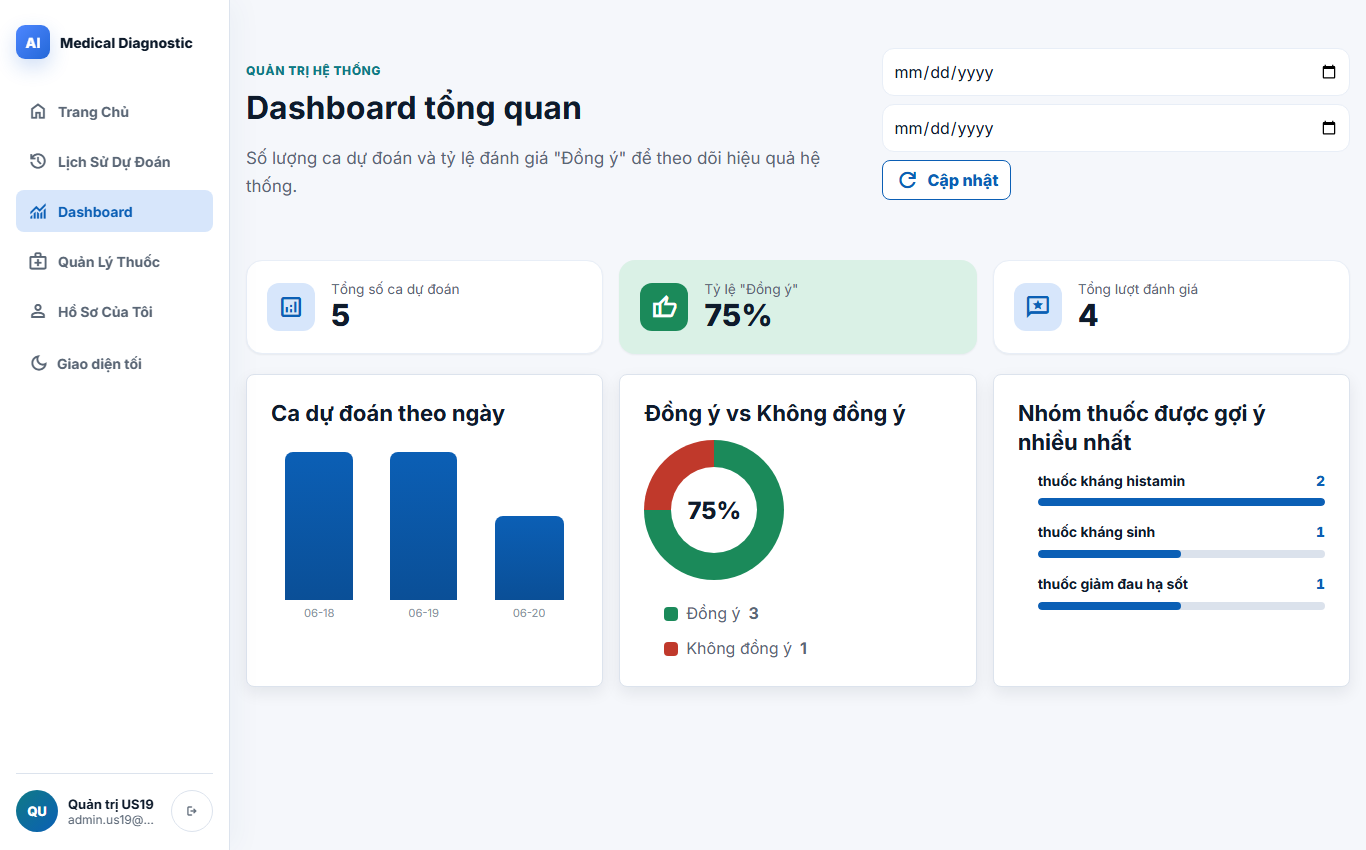
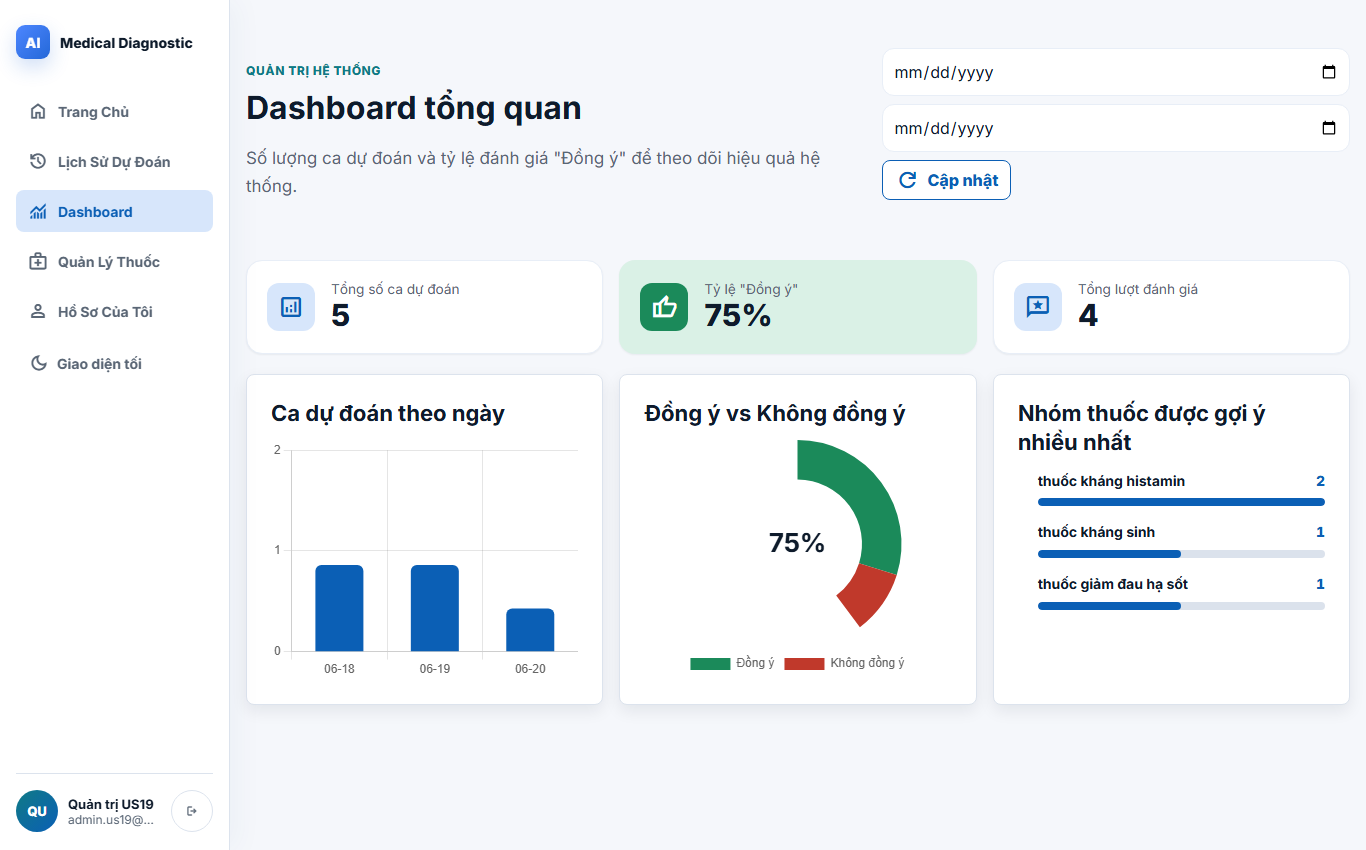
feat(dashboard): SCRUM-80 — tích hợp Chart.js cho biểu đồ Dashboard
Đúng yêu cầu Task 49 (SCRUM-80): thay biểu đồ CSS thuần bằng thư viện Chart.js.

- Vendor Chart.js 4.4.4 vào frontend/vendor/chart.umd.min.js (chạy offline, không CDN)
- Biểu đồ cột "ca dự đoán theo ngày" + donut "Đồng ý/Không đồng ý" (kèm % ở tâm) bằng Chart.js
- backend: cho phép phục vụ vendor/chart.umd.min.js trong ALLOWED_STATIC_FILES
- UI test đọc dữ liệu trực tiếp từ Chart.getChart() để xác nhận thư viện được tích hợp (10/10)

Changed region(s): [[0.1845, 0.52, 0.4305, 0.7953], [0.4612, 0.52, 0.6764, 0.7953]]

diff --git a/frontend/script.js b/frontend/script.js
@@ -653,45 +653,94 @@ function setDashboardMessage(message, isError = false) {
   dashboardMessage.classList.toggle("is-error", isError);
 }
 
+// SCRUM-80: biểu đồ vẽ bằng Chart.js (vendor cục bộ frontend/vendor/chart.umd.min.js).
+let barsChart = null;
+let donutChart = null;
+
+function cssVar(name, fallback) {
+  const v = getComputedStyle(document.documentElement).getPropertyValue(name).trim();
+  return v || fallback;
+}
+
+// Plugin nhỏ: vẽ % Đồng ý ở tâm donut.
+const donutCenterText = {
+  id: "donutCenterText",
+  afterDraw(chart) {
+    const txt = chart.config.options.plugins?.centerText?.text;
+    if (!txt) return;
+    const { ctx, chartArea } = chart;
+    const x = (chartArea.left + chartArea.right) / 2;
+    const y = (chartArea.top + chartArea.bottom) / 2;
+    ctx.save();
+    ctx.font = "700 26px Inter, sans-serif";
+    ctx.fillStyle = cssVar("--text", "#0e1b2b");
+    ctx.textAlign = "center";
+    ctx.textBaseline = "middle";
+    ctx.fillText(txt, x, y);
+    ctx.restore();
+  },
+};
+
 function renderDashboard(stats) {
   document.getElementById("stat-total-predictions").textContent = (stats.total_predictions || 0).toLocaleString("vi-VN");
   document.getElementById("stat-agree-rate").textContent =
     stats.agree_rate === null || stats.agree_rate === undefined ? "—" : `${stats.agree_rate}%`;
   document.getElementById("stat-feedback-total").textContent = (stats.feedback_total || 0).toLocaleString("vi-VN");
 
-  // Biểu đồ cột: ca dự đoán theo ngày.
-  const bars = document.getElementById("dashboard-bars");
-  const barsEmpty = document.getElementById("dashboard-bars-empty");
+  // Biểu đồ cột: ca dự đoán theo ngày (Chart.js).
   const series = stats.predictions_over_time || [];
-  bars.innerHTML = "";
-  barsEmpty.classList.toggle("is-hidden", series.length > 0);
-  const maxCount = series.reduce((m, d) => Math.max(m, d.count || 0), 0) || 1;
-  series.forEach((point) => {
-    const col = document.createElement("div");
-    col.className = "bar-col";
-    col.title = `${point.date}: ${point.count} ca`;
-    const fill = document.createElement("span");
-    fill.className = "bar-fill";
-    fill.style.height = `${Math.round(((point.count || 0) / maxCount) * 100)}%`;
-    const label = document.createElement("span");
-    label.className = "bar-label";
-    label.textContent = (point.date || "").slice(5); // MM-DD
-    col.append(fill, label);
-    bars.appendChild(col);
+  document.getElementById("dashboard-bars-empty").classList.toggle("is-hidden", series.length > 0);
+  const barsCanvas = document.getElementById("dashboard-bars-canvas");
+  if (barsChart) barsChart.destroy();
+  barsChart = new Chart(barsCanvas, {
+    type: "bar",
+    data: {
+      labels: series.map((p) => (p.date || "").slice(5)),
+      datasets: [{
+        label: "Số ca",
+        data: series.map((p) => p.count || 0),
+        backgroundColor: cssVar("--primary", "#0b5fb5"),
+        borderRadius: 6,
+        maxBarThickness: 48,
+      }],
+    },
+    options: {
+      responsive: true,
+      maintainAspectRatio: false,
+      plugins: { legend: { display: false } },
+      scales: { y: { beginAtZero: true, ticks: { precision: 0 } } },
+    },
   });
 
-  // Donut: Đồng ý vs Không đồng ý (conic-gradient thuần CSS).
+  // Donut: Đồng ý vs Không đồng ý (Chart.js doughnut).
   const agree = stats.agree_count || 0;
   const disagree = stats.disagree_count || 0;
   const total = agree + disagree;
-  const donut = document.getElementById("dashboard-donut");
   const agreePct = total ? Math.round((agree / total) * 100) : 0;
-  donut.style.background = total
-    ? `conic-gradient(var(--success, #16a34a) 0 ${agreePct}%, var(--danger, #dc2626) ${agreePct}% 100%)`
-    : "conic-gradient(var(--border, #d1d5db) 0 100%)";
-  document.getElementById("donut-center").textContent = total ? `${agreePct}%` : "—";
-  document.getElementById("legend-agree").textContent = agree;
-  document.getElementById("legend-disagree").textContent = disagree;
+  document.getElementById("dashboard-donut-empty").classList.toggle("is-hidden", total > 0);
+  const donutCanvas = document.getElementById("dashboard-donut-canvas");
+  if (donutChart) donutChart.destroy();
+  donutChart = new Chart(donutCanvas, {
+    type: "doughnut",
+    data: {
+      labels: ["Đồng ý", "Không đồng ý"],
+      datasets: [{
+        data: total ? [agree, disagree] : [0, 0],
+        backgroundColor: [cssVar("--success", "#16a34a"), cssVar("--danger", "#dc2626")],
+        borderWidth: 0,
+      }],
+    },
+    options: {
+      responsive: true,
+      maintainAspectRatio: false,
+      cutout: "62%",
+      plugins: {
+        legend: { position: "bottom" },
+        centerText: { text: total ? `${agreePct}%` : "" },
+      },
+    },
+    plugins: [donutCenterText],
+  });
 
   // Top nhóm thuốc.
   const topGroups = document.getElementById("dashboard-top-groups");

diff --git a/frontend/styles.css b/frontend/styles.css
@@ -1580,90 +1580,10 @@ input:focus {
   margin-top: 8px;
 }
 
-.bar-chart {
-  display: flex;
-  align-items: flex-end;
-  gap: 8px;
-  height: 180px;
-  padding-top: 12px;
-  overflow-x: auto;
-}
-.bar-col {
-  display: flex;
-  flex-direction: column;
-  align-items: center;
-  justify-content: flex-end;
-  gap: 6px;
-  min-width: 28px;
-  flex: 1 0 auto;
-  height: 100%;
-}
-.bar-fill {
-  width: 70%;
-  min-height: 4px;
-  border-radius: var(--radius-sm) var(--radius-sm) 0 0;
-  background: linear-gradient(180deg, var(--primary), var(--primary-hover));
-}
-.bar-label {
-  font-size: 0.7rem;
-  color: var(--text-subtle);
-  white-space: nowrap;
-}
-
-.donut-wrap {
-  display: flex;
-  align-items: center;
-  gap: 20px;
-  flex-wrap: wrap;
-}
-.donut {
+/* Container canvas cho Chart.js (cần chiều cao cố định vì maintainAspectRatio:false). */
+.chart-box {
   position: relative;
-  width: 140px;
-  height: 140px;
-  border-radius: 50%;
-  display: grid;
-  place-items: center;
-  background: conic-gradient(var(--surface-container) 0 100%);
-}
-.donut::after {
-  content: "";
-  position: absolute;
-  width: 86px;
-  height: 86px;
-  border-radius: 50%;
-  background: var(--surface-lowest);
-}
-.donut-center {
-  position: relative;
-  z-index: 1;
-  font-size: 1.5rem;
-  font-weight: 800;
-  color: var(--text);
-}
-.donut-legend {
-  list-style: none;
-  margin: 0;
-  padding: 0;
-  display: grid;
-  gap: 8px;
-}
-.donut-legend li {
-  display: flex;
-  align-items: center;
-  gap: 8px;
-  color: var(--text-muted);
-}
-.legend-swatch {
-  width: 14px;
-  height: 14px;
-  border-radius: 4px;
-  display: inline-block;
-}
-.swatch-agree {
-  background: var(--success);
-}
-.swatch-disagree {
-  background: var(--danger);
+  height: 240px;
 }
 .dashboard-empty {
   margin-top: 12px;

diff --git a/frontend/index.html b/frontend/index.html
@@ -460,20 +460,13 @@
           <div class="dashboard-grid">
             <article class="detail-card">
               <h2>Ca dự đoán theo ngày</h2>
-              <div class="bar-chart" id="dashboard-bars" aria-live="polite"></div>
+              <div class="chart-box"><canvas id="dashboard-bars-canvas" aria-label="Biểu đồ ca dự đoán theo ngày" role="img"></canvas></div>
               <p class="muted-text dashboard-empty is-hidden" id="dashboard-bars-empty">Chưa có dữ liệu ca dự đoán trong khoảng thời gian này.</p>
             </article>
             <article class="detail-card">
               <h2>Đồng ý vs Không đồng ý</h2>
-              <div class="donut-wrap">
-                <div class="donut" id="dashboard-donut" role="img" aria-label="Tỷ lệ đồng ý và không đồng ý">
-                  <span class="donut-center" id="donut-center">—</span>
-                </div>
-                <ul class="donut-legend">
-                  <li><span class="legend-swatch swatch-agree"></span>Đồng ý <strong id="legend-agree">0</strong></li>
-                  <li><span class="legend-swatch swatch-disagree"></span>Không đồng ý <strong id="legend-disagree">0</strong></li>
-                </ul>
-              </div>
+              <div class="chart-box"><canvas id="dashboard-donut-canvas" aria-label="Tỷ lệ đồng ý và không đồng ý" role="img"></canvas></div>
+              <p class="muted-text dashboard-empty is-hidden" id="dashboard-donut-empty">Chưa có lượt đánh giá nào.</p>
             </article>
             <article class="detail-card">
               <h2>Nhóm thuốc được gợi ý nhiều nhất</h2>
@@ -558,6 +551,7 @@
       </button>
     </nav>
 
+    <script src="vendor/chart.umd.min.js"></script>
     <script src="script.js"></script>
   </body>
 </html>

diff --git a/run_ui_tests_us19.py b/run_ui_tests_us19.py
@@ -119,14 +119,16 @@ def run():
             total = page.inner_text("#stat-total-predictions").strip()
             rate = page.inner_text("#stat-agree-rate").strip()
             feedback_total = page.inner_text("#stat-feedback-total").strip()
-            donut = page.inner_text("#donut-center").strip()
-            bars = page.locator("#dashboard-bars .bar-col").count()
             top_rows = page.locator("#dashboard-top-groups .prediction-row").count()
+            # SCRUM-80: đọc dữ liệu từ chính Chart.js (canvas) để chứng minh thư viện được tích hợp.
+            page.wait_for_function("() => !!(window.Chart && Chart.getChart('dashboard-bars-canvas'))", timeout=10000)
+            bars_data = page.evaluate("() => Chart.getChart('dashboard-bars-canvas').data.datasets[0].data")
+            donut_data = page.evaluate("() => Chart.getChart('dashboard-donut-canvas').data.datasets[0].data")
             rec("Admin: tổng ca dự đoán = 5", total == "5", f"thấy '{total}'")
             rec("Admin: tỷ lệ Đồng ý = 75%", rate == "75%", f"thấy '{rate}'")
             rec("Admin: tổng đánh giá = 4", feedback_total == "4", f"thấy '{feedback_total}'")
-            rec("Admin: donut tâm = 75%", donut == "75%", f"thấy '{donut}'")
-            rec("Admin: biểu đồ cột có 3 ngày", bars == 3, f"thấy {bars} cột")
+            rec("Admin: Chart.js cột có 3 ngày, tổng 5", len(bars_data) == 3 and sum(bars_data) == 5, str(bars_data))
+            rec("Admin: Chart.js donut [đồng ý, không] = [3,1]", donut_data == [3, 1], str(donut_data))
             rec("Admin: top nhóm thuốc có dòng", top_rows >= 1, f"thấy {top_rows} dòng")
             page.screenshot(path=str(ROOT / "screenshots" / "us19_dashboard_admin.png"))
 

diff --git a/backend/app.py b/backend/app.py
@@ -116,7 +116,7 @@ MIN_TOPGAP = float(os.environ.get("MIN_TOPGAP", "0.12"))
 MIN_RELIABLE_SYMPTOMS = 2
 MAX_NOTES_LENGTH = 2000
 MIN_PASSWORD_LENGTH = 6
-ALLOWED_STATIC_FILES = {"index.html", "styles.css", "script.js"}
+ALLOWED_STATIC_FILES = {"index.html", "styles.css", "script.js", "vendor/chart.umd.min.js"}
 SCORE_LABEL = "Độ tương đồng" if metadata.get("model_type") == "json_symptom_search" else "Độ tin cậy"
 
 